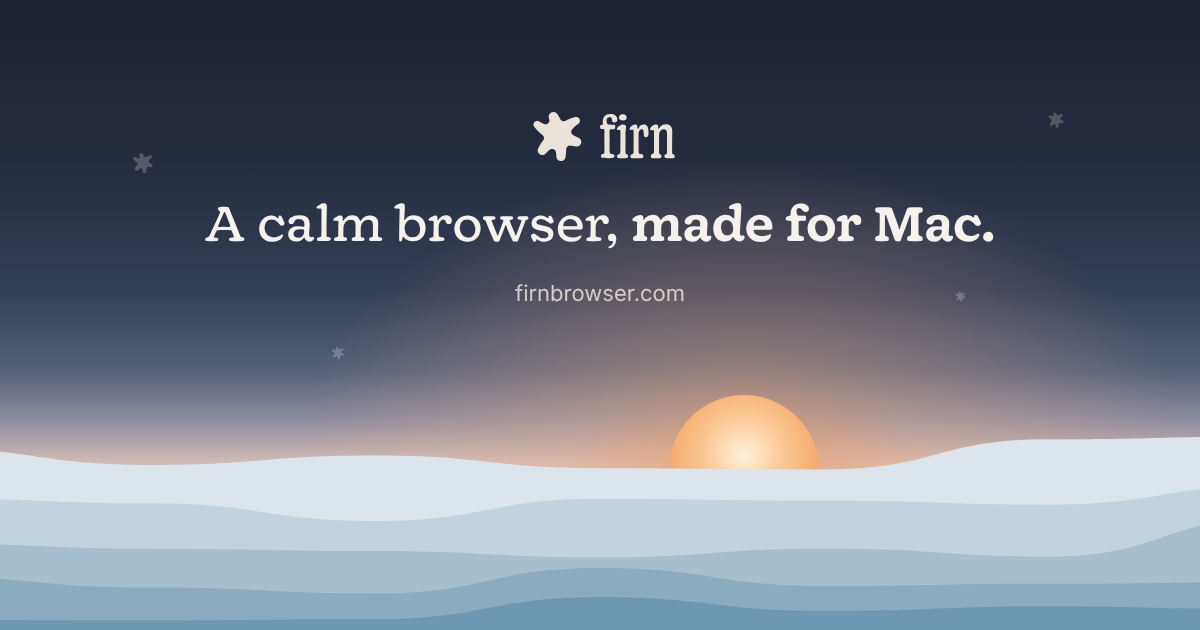
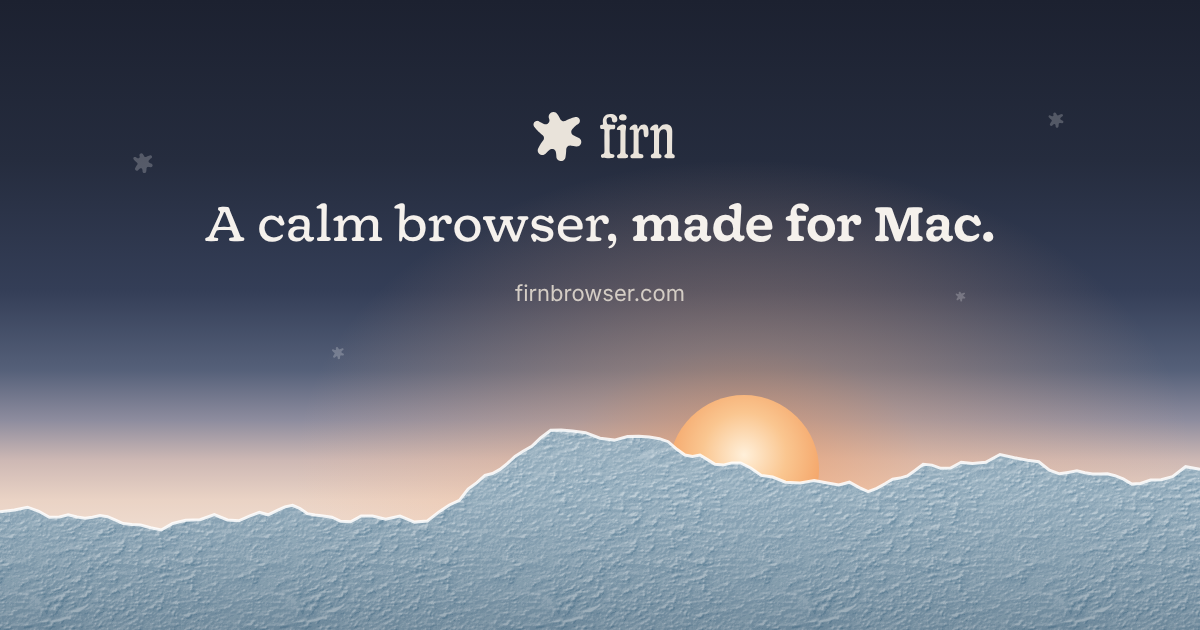
Link preview v8: one snow edge like the inner pages, not the old layers
The snow is now the inner pages' footer: the same edge points, white rim
and packed-snow ice texture, with the sun rising behind the ridge. 332 KB.

Claude-Session: https://claude.ai/code/session_01Mwbk44pV8FnuacFMxZumEU

Changed region(s): [[0.0, 0.6635, 1.0, 1.0]]

diff --git a/design/share-preview/og.html b/design/share-preview/og.html
@@ -9,7 +9,13 @@ html,body{margin:0}
  background:radial-gradient(closest-side,rgba(244,160,104,.7),rgba(246,180,136,.32) 40%,rgba(246,200,160,0))}
 .disc{position:absolute;left:744px;top:470px;width:150px;height:150px;margin:-75px 0 0 -75px;border-radius:50%;
  background:radial-gradient(circle at 50% 40%,#FFF0DA 0%,#FAC690 36%,#F29A5C 80%,#EA8A50 100%)}
-.snow{position:absolute;left:0;bottom:0;width:1200px;height:270px;background:url(snow-noflakes.svg) center bottom/1350px auto no-repeat}
+.ice{position:absolute;left:0;top:430px;width:1200px;height:200px;
+ clip-path:polygon(0% 81.8px, 1.2% 79.9px, 2.29% 77.2px, 3.23% 81.3px, 4.11% 87.2px, 4.95% 87.0px, 5.68% 84.8px, 6.41% 87.0px, 7.08% 88.3px, 7.71% 87.2px, 8.33% 85.6px, 8.96% 86.7px, 9.58% 89.9px, 10.26% 93.5px, 10.99% 94.6px, 11.72% 95.1px, 12.55% 97.8px, 13.44% 100.0px, 14.38% 93.5px, 15.47% 90.2px, 16.67% 89.7px, 17.86% 84.5px, 18.96% 89.9px, 19.9% 90.8px, 20.78% 86.1px, 21.61% 82.3px, 22.34% 84.8px, 23.07% 80.7px, 23.75% 76.9px, 24.38% 75.3px, 25% 78.5px, 25.62% 83.7px, 26.25% 85.1px, 26.93% 86.1px, 27.66% 87.2px, 28.39% 91.3px, 29.22% 91.8px, 30.1% 85.9px, 31.04% 86.1px, 32.14% 89.1px, 33.33% 86.1px, 34.53% 92.1px, 35.62% 91.0px, 36.56% 82.1px, 37.45% 75.0px, 38.28% 70.4px, 39.01% 59.0px, 39.74% 52.7px, 40.42% 45.4px, 41.04% 43.5px, 41.67% 39.4px, 42.29% 33.4px, 42.92% 26.4px, 43.59% 21.2px, 44.32% 16.3px, 45.05% 7.9px, 45.89% 0.3px, 46.77% 0.0px, 47.71% 1.1px, 48.8% 2.7px, 50% 8.2px, 51.2% 10.1px, 52.29% 6.5px, 53.23% 6.3px, 54.11% 7.1px, 54.95% 8.7px, 55.68% 11.7px, 56.41% 19.3px, 57.08% 25.0px, 57.71% 26.4px, 58.33% 25.0px, 58.96% 29.6px, 59.58% 34.2px, 60.26% 35.1px, 60.99% 32.9px, 61.72% 32.9px, 62.55% 38.0px, 63.44% 45.4px, 64.38% 47.0px, 65.47% 52.2px, 66.67% 53.0px, 67.86% 50.5px, 68.96% 53.0px, 69.9% 54.9px, 70.78% 52.2px, 71.61% 57.6px, 72.34% 61.7px, 73.07% 58.4px, 73.75% 53.8px, 74.38% 49.2px, 75% 48.1px, 75.62% 45.9px, 76.25% 40.5px, 76.93% 34.2px, 77.66% 35.1px, 78.39% 38.3px, 79.22% 38.0px, 80.1% 32.3px, 81.04% 33.4px, 82.14% 32.3px, 83.33% 24.5px, 84.53% 27.7px, 85.62% 30.2px, 86.56% 31.8px, 87.45% 40.2px, 88.28% 43.8px, 89.01% 42.4px, 89.74% 40.8px, 90.42% 42.7px, 91.04% 44.0px, 91.67% 44.0px, 92.29% 43.8px, 92.92% 45.7px, 93.59% 48.9px, 94.32% 54.1px, 95.05% 53.5px, 95.89% 50.0px, 96.77% 49.7px, 97.71% 46.7px, 98.8% 36.7px, 100% 39.4px, 100% 100%, 0 100%);
+ background-color:color-mix(in srgb,#6E98B2 80%,#26394B);
+ background-image:linear-gradient(180deg,rgba(255,255,255,.2),rgba(255,255,255,0) 280px),linear-gradient(180deg,rgba(14,32,50,0) 30%,rgba(14,32,50,.2)),url(snow-packed.webp);
+ background-size:auto,auto,256px 256px}
+.rim{position:absolute;left:0;top:430px;width:1200px;height:100px;overflow:visible}
+.rim polyline{fill:none;stroke:rgba(255,255,255,.85);stroke-width:3}
 .logo{position:absolute;top:96px;left:50%;transform:translateX(-50%);height:80px}
 h1{position:absolute;top:200px;width:100%;margin:0;text-align:center;font:400 50px/1.1 "Gooper Deck",Georgia,serif;color:#F5F1EC;letter-spacing:-.005em}
 h1 b{font-weight:600}
@@ -24,4 +30,4 @@ h1 b{font-weight:600}
 <img class="logo" src="firn-lockup-on-dark.svg" alt="">
 <h1>A calm browser, <b>made for Mac.</b></h1>
 <div class="u">firnbrowser.com</div>
-<div class="snow"></div></div></body></html>
+<div class="ice"></div><svg class="rim" viewBox="0 0 1200 100"><polyline points="0.0,81.8 14.4,79.9 27.5,77.2 38.8,81.3 49.3,87.2 59.4,87.0 68.2,84.8 76.9,87.0 85.0,88.3 92.5,87.2 100.0,85.6 107.5,86.7 115.0,89.9 123.1,93.5 131.9,94.6 140.6,95.1 150.6,97.8 161.3,100.0 172.6,93.5 185.6,90.2 200.0,89.7 214.3,84.5 227.5,89.9 238.8,90.8 249.4,86.1 259.3,82.3 268.1,84.8 276.8,80.7 285.0,76.9 292.6,75.3 300.0,78.5 307.4,83.7 315.0,85.1 323.2,86.1 331.9,87.2 340.7,91.3 350.6,91.8 361.2,85.9 372.5,86.1 385.7,89.1 400.0,86.1 414.4,92.1 427.4,91.0 438.7,82.1 449.4,75.0 459.4,70.4 468.1,59.0 476.9,52.7 485.0,45.4 492.5,43.5 500.0,39.4 507.5,33.4 515.0,26.4 523.1,21.2 531.8,16.3 540.6,7.9 550.7,0.3 561.2,0.0 572.5,1.1 585.6,2.7 600.0,8.2 614.4,10.1 627.5,6.5 638.8,6.3 649.3,7.1 659.4,8.7 668.2,11.7 676.9,19.3 685.0,25.0 692.5,26.4 700.0,25.0 707.5,29.6 715.0,34.2 723.1,35.1 731.9,32.9 740.6,32.9 750.6,38.0 761.3,45.4 772.6,47.0 785.6,52.2 800.0,53.0 814.3,50.5 827.5,53.0 838.8,54.9 849.4,52.2 859.3,57.6 868.1,61.7 876.8,58.4 885.0,53.8 892.6,49.2 900.0,48.1 907.4,45.9 915.0,40.5 923.2,34.2 931.9,35.1 940.7,38.3 950.6,38.0 961.2,32.3 972.5,33.4 985.7,32.3 1000.0,24.5 1014.4,27.7 1027.4,30.2 1038.7,31.8 1049.4,40.2 1059.4,43.8 1068.1,42.4 1076.9,40.8 1085.0,42.7 1092.5,44.0 1100.0,44.0 1107.5,43.8 1115.0,45.7 1123.1,48.9 1131.8,54.1 1140.6,53.5 1150.7,50.0 1161.2,49.7 1172.5,46.7 1185.6,36.7 1200.0,39.4"/></svg></div></body></html>

diff --git a/CLAUDE.md b/CLAUDE.md
@@ -46,10 +46,10 @@ unless David changes it.
 - `public/assets/firn-share-preview-v8.png`: the 1200×630 link preview (Open
   Graph / Twitter card), the same in both modes. v8 (2026-11-13) is in the
   Sunrise style: blue-hour sky, on-dark logo, light Gooper Deck headline
-  ("A calm browser, made for Mac."), the sun half risen behind the snow;
+  ("A calm browser, made for Mac."), the sun rising behind one snow edge with packed-snow ice, as on the inner pages' footer;
   rendered from `design/share-preview/og.html`; used by every page (v5–v7
   stay in assets for old shared links). Keep it a PNG, don't recompress it,
-  and keep it small (about 160 KB; WhatsApp skips
+  and keep it small (about 330 KB; WhatsApp skips
   images over about 600 KB). Each page's `og:image` and `twitter:image` use
   the full URL, e.g. `https://firnbrowser.com/assets/firn-share-preview-v8.png`.
   When it changes, use a new file name (v9, …) so apps fetch the new

diff --git a/design/share-preview/README.md b/design/share-preview/README.md
@@ -1,10 +1,9 @@
 # Link preview (v8)
 
 `og.html` draws the 1200×630 link preview in the Sunrise style. To rebuild
-it, copy into this folder `firn-lockup-on-dark.svg` and `firn-mark.svg` from
-`public/assets/`, plus `GooperDeck-Regular.woff2` and `-SemiBold.woff2` from
+it, copy into this folder `firn-lockup-on-dark.svg`, `firn-mark.svg` and
+`snow-packed.webp` from `public/assets/`, plus `GooperDeck-Regular.woff2` and `-SemiBold.woff2` from
 fonts.firnbrowser.com (never commit the fonts), then run
 `node shot.js "$PWD"`. It writes `v8.png`; give the new image a new version
-number in `public/assets/`. `snow-noflakes.svg` is
-`public/assets/firn-snow-layers-clear.svg` without its three flakes (one
-landed on the sun).
+number in `public/assets/`. The snow is the inner pages' footer: the same edge
+(points from the `<polyline>` in `public/support.html`), rim and ice.
